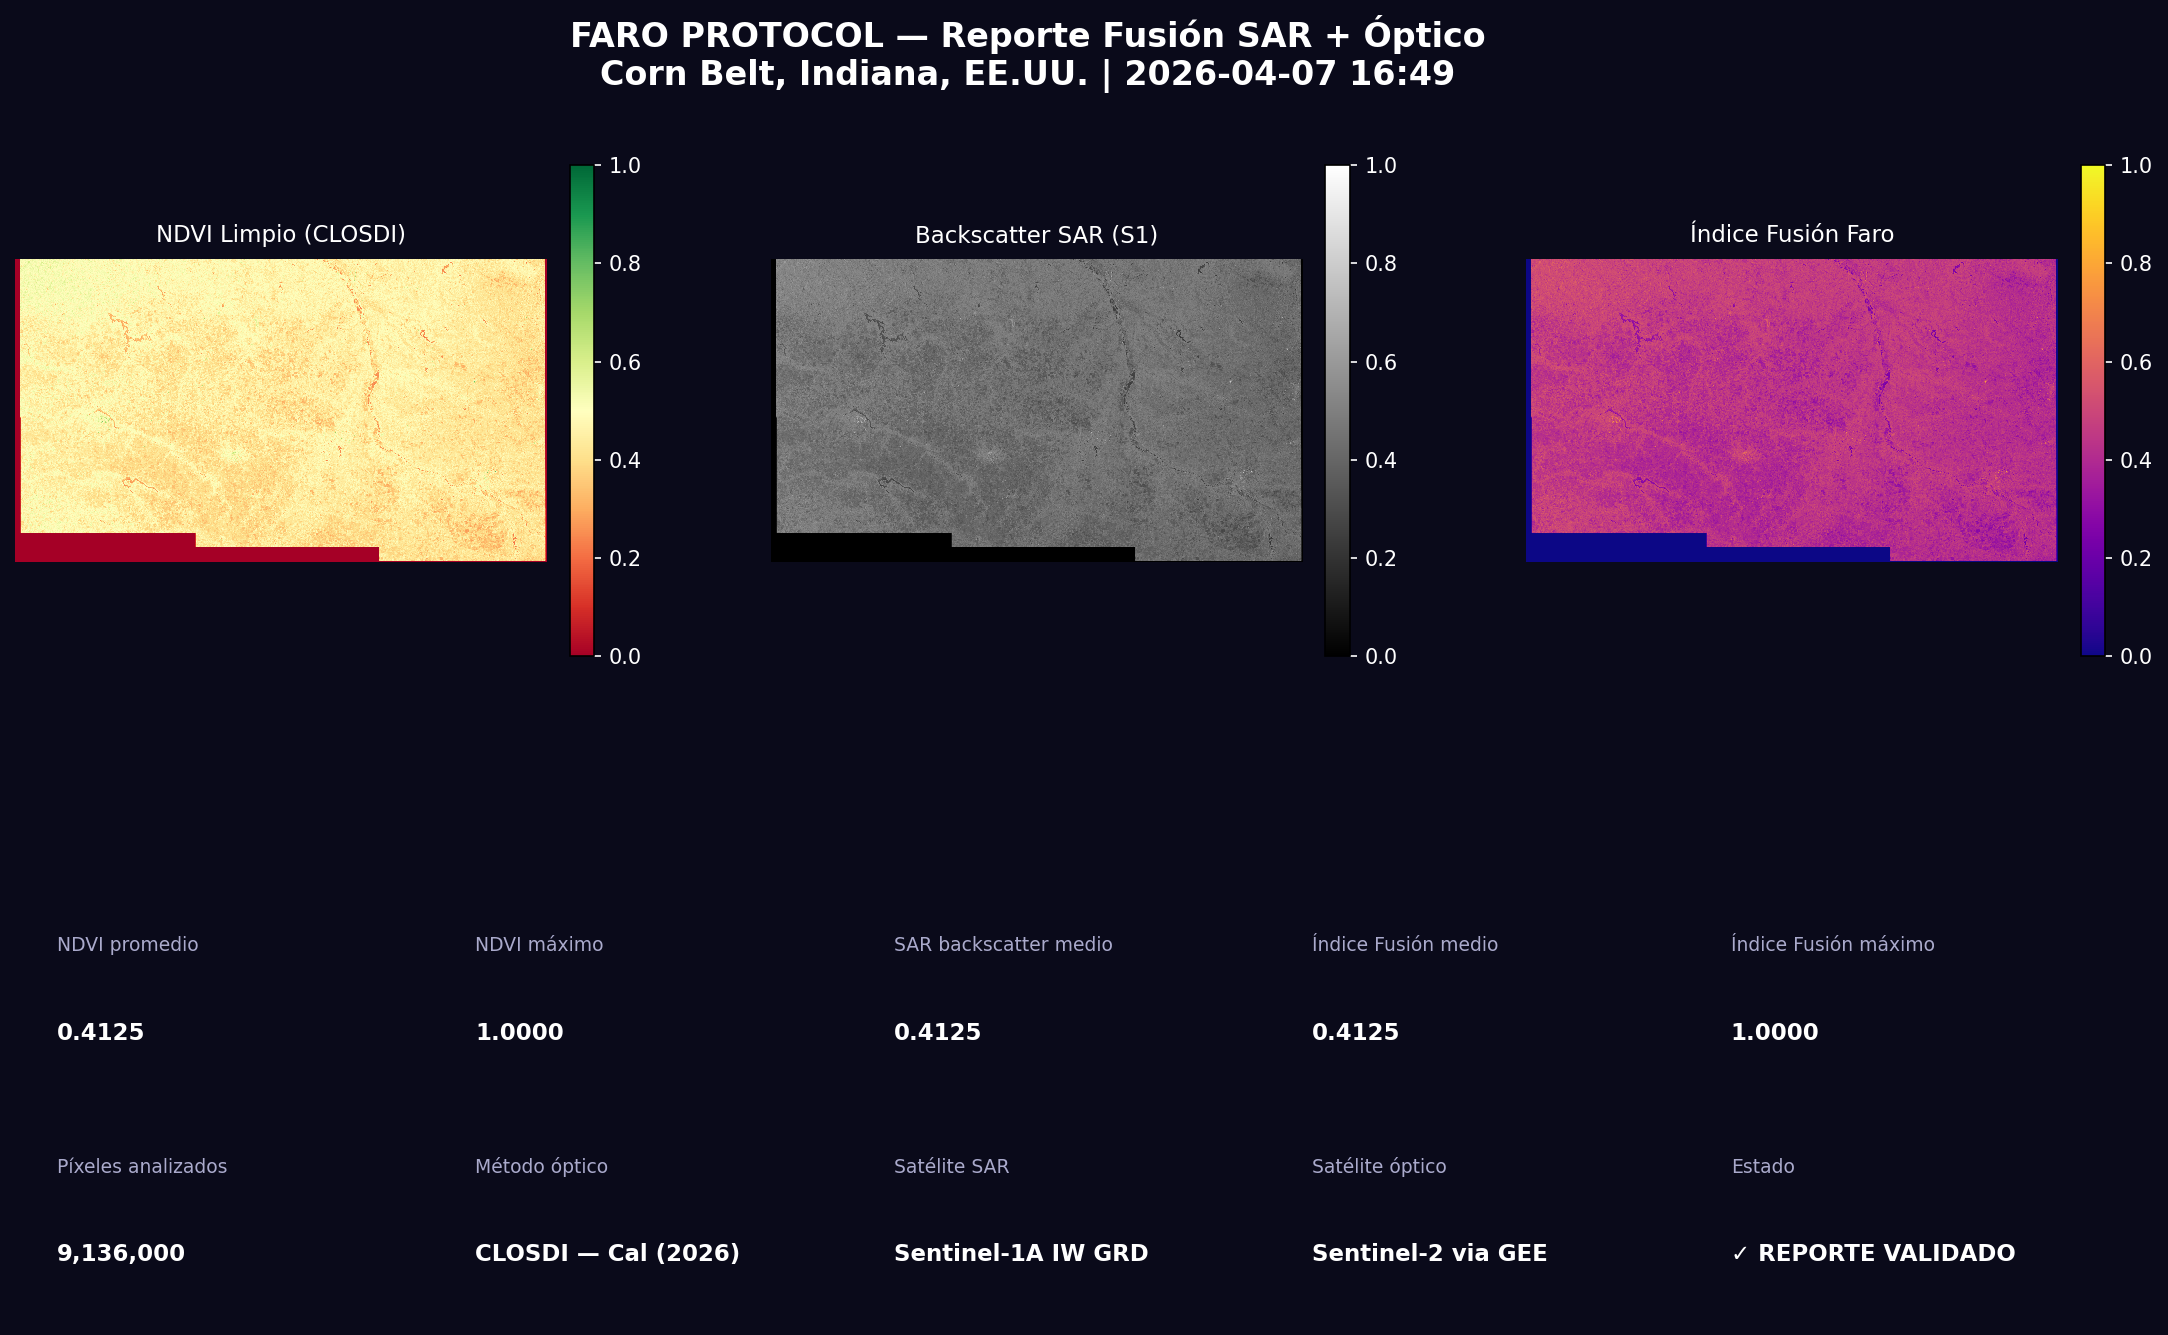
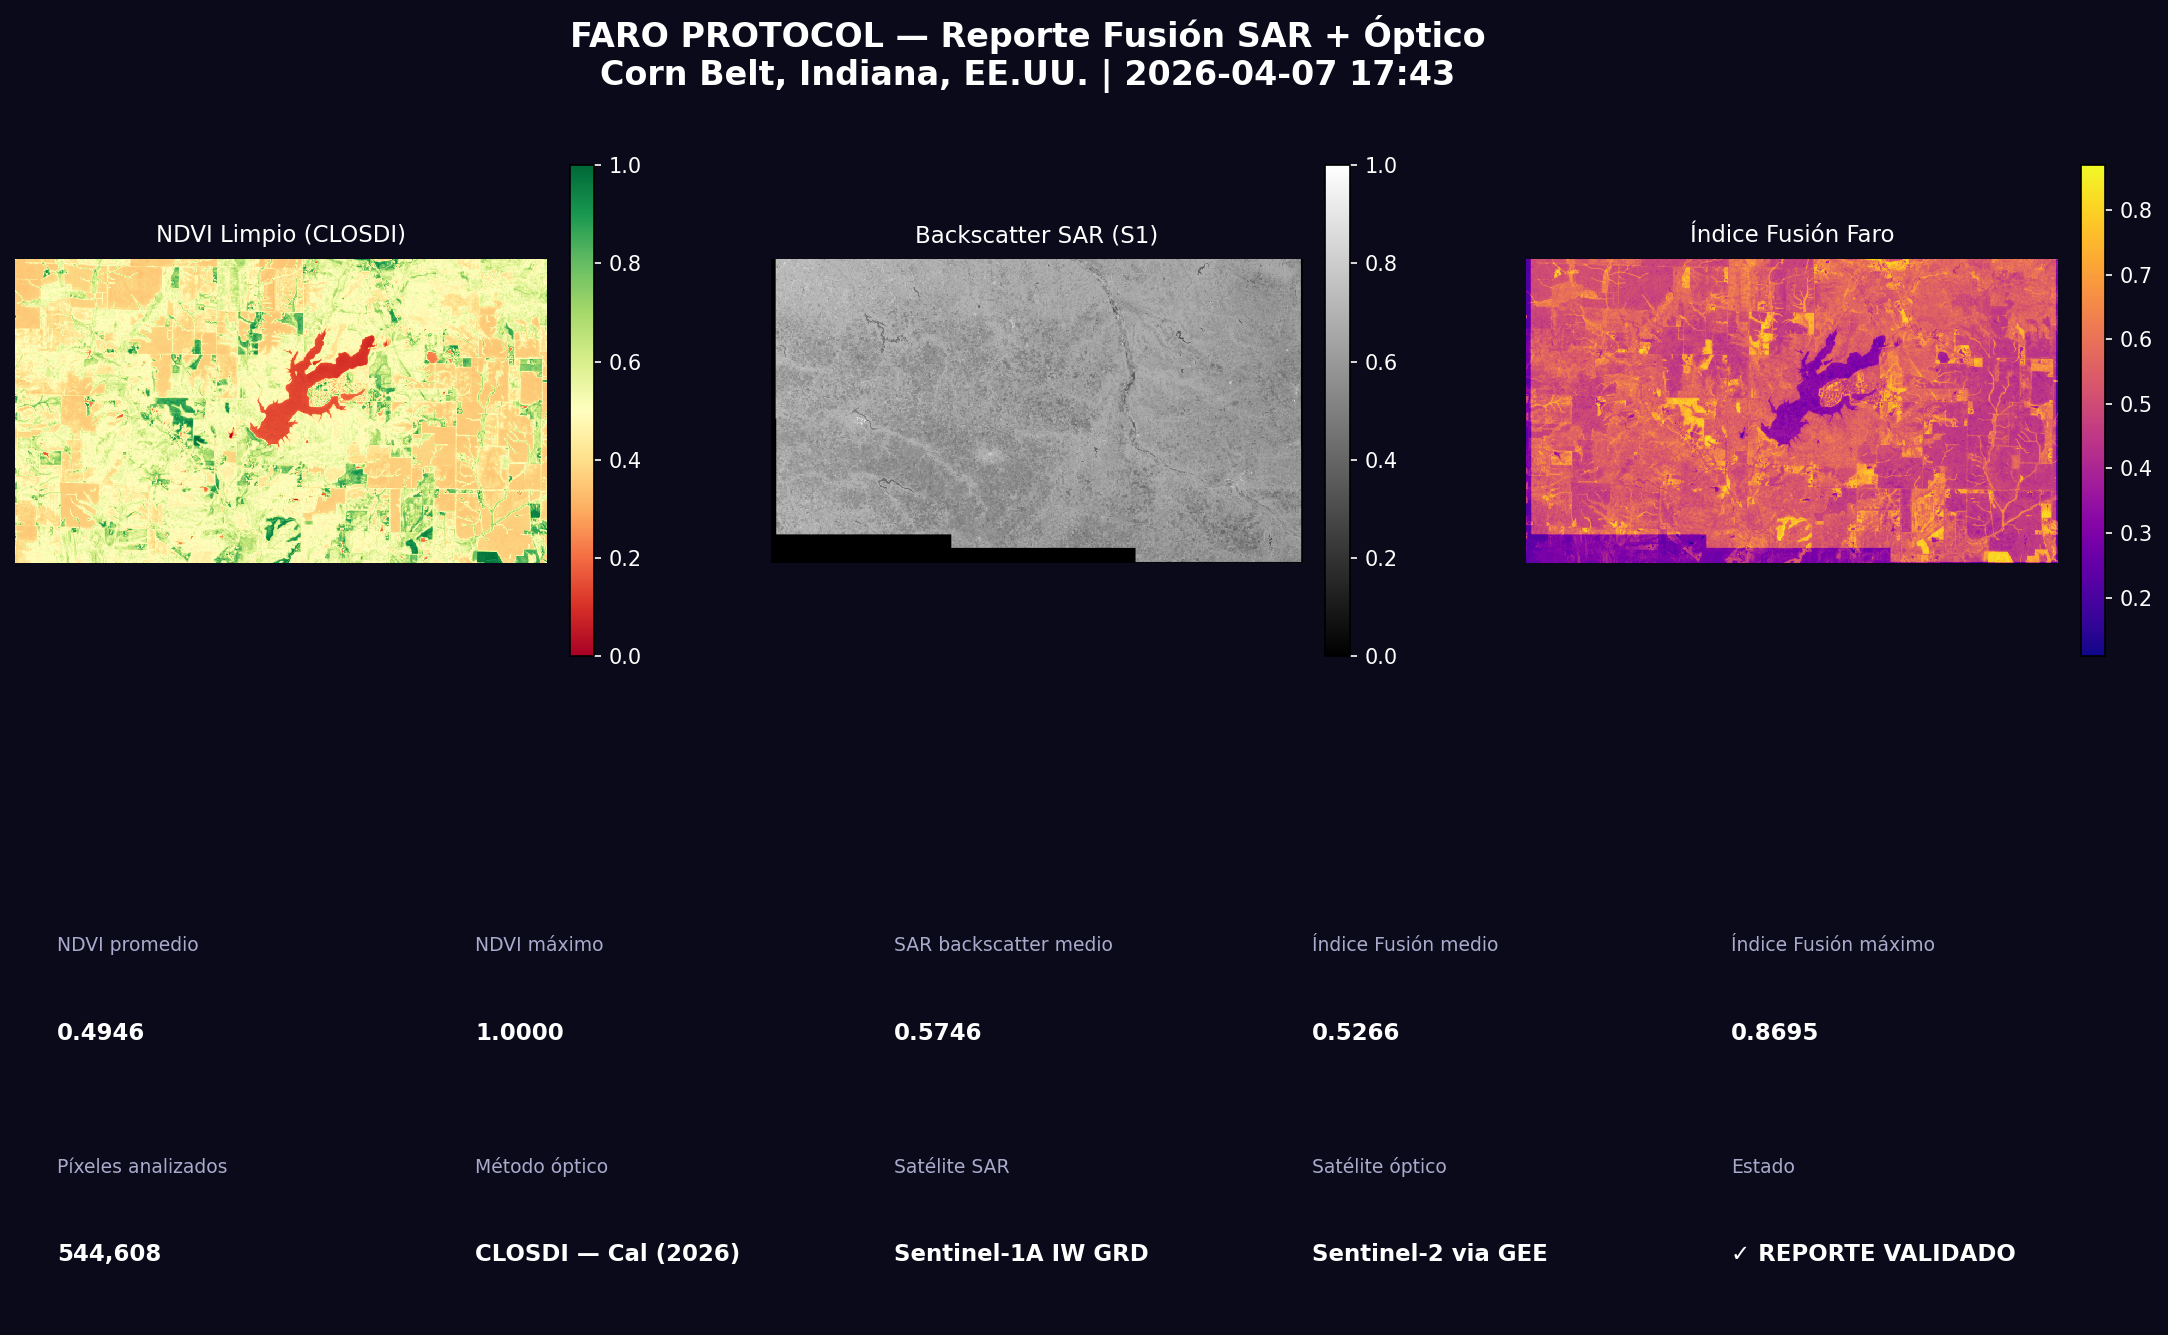
feat: batch SAR+S2 pipeline completo — 9/9 áreas con Sello Verde
Corrida completa del pipeline SAR + Sentinel-2 óptico para las 9 áreas
globales (cordoba, balcarce, vaca_muerta, rotterdam, permian, pilbara,
amazonas, indiana, malacca). Todos los reportes de fusión y certificados
regenerados con SHA-256 verificado. Bricolage LinkedIn actualizado.

diff --git a/faro_pipeline.py b/faro_pipeline.py
@@ -69,33 +69,91 @@ def actualizar_data_json(area_name: str, stats: dict, sha256: str):
 
 def main():
     parser = argparse.ArgumentParser(
-        description='FARO PROTOCOL — Pipeline unificado',
+        description='FARO PROTOCOL — Pipeline unificado (SAR + S2 óptico)',
         formatter_class=argparse.RawDescriptionHelpFormatter,
         epilog=f"Areas disponibles: {', '.join(list_areas())}"
     )
     parser.add_argument(
-        '--area', required=True,
-        help='Nombre del area (ej: cordoba, vaca_muerta, balcarce)'
+        '--area', required=True, nargs='+',
+        help='Área(s) a procesar. Admite múltiples: --area cordoba balcarce vaca_muerta'
+    )
+    parser.add_argument(
+        '--with-s2', action='store_true', default=True,
+        help='Descargar Sentinel-2 L2A y calcular NDVI (activo por defecto)'
+    )
+    parser.add_argument(
+        '--no-s2', action='store_true',
+        help='No descargar S2 (modo SAR-only forzado)'
+    )
+    parser.add_argument(
+        '--max-nubes-s2', type=float, default=50.0,
+        help='Máximo %% nubes para S2 (default: 50)'
     )
     parser.add_argument(
         '--sar-file',
-        help='Path al archivo SAR .tiff crudo descargado de Copernicus'
+        help='Path al archivo SAR .tiff crudo (solo para área única sin georef)'
     )
     parser.add_argument(
         '--skip-georef', action='store_true',
-        help='Omitir el paso de georreferenciacion (el .tif ya existe)'
+        help='Omitir georreferenciación SAR (el .tif ya existe)'
     )
     parser.add_argument(
         '--only-search', action='store_true',
-        help='Solo buscar imagenes SAR disponibles, sin procesar'
+        help='Solo buscar imágenes SAR disponibles, sin procesar'
     )
     parser.add_argument(
         '--skip-vision', action='store_true',
-        help='Omitir la clasificacion de vigor (Fase 6) — util si el NDVI no esta disponible'
+        help='Omitir clasificación de vigor'
     )
     args = parser.parse_args()
 
-    area = load_area(args.area)
+    # Modo multi-área: delegar en faro_sar_auto.pipeline_area()
+    if len(args.area) > 1 or (len(args.area) == 1 and not args.sar_file and not args.only_search):
+        from faro_sar_auto import pipeline_area
+
+        areas_a_procesar = args.area
+        use_s2 = args.with_s2 and not args.no_s2
+        resultados = []
+        errores    = []
+
+        print()
+        print('=' * 65)
+        print(f'  FARO PROTOCOL — Batch pipeline ({len(areas_a_procesar)} áreas)')
+        print(f'  Modo: {"SAR + S2 óptico" if use_s2 else "SAR-only"}')
+        print(f'  Inicio: {datetime.now().strftime("%Y-%m-%d %H:%M")}')
+        print('=' * 65)
+
+        for i, area_name in enumerate(areas_a_procesar, 1):
+            print(f'\n[{i}/{len(areas_a_procesar)}] ── {area_name.upper()} ──')
+            try:
+                res = pipeline_area(
+                    area_name,
+                    skip_georef=True,   # el georef ya existe para todas
+                    with_s2=use_s2,
+                    max_nubes_s2=args.max_nubes_s2,
+                )
+                resultados.append(res)
+            except Exception as exc:
+                print(f'  ERROR en {area_name}: {exc}')
+                errores.append({'area': area_name, 'error': str(exc)})
+
+        # Resumen final
+        print()
+        print('=' * 65)
+        print(f'  RESUMEN BATCH — {datetime.now().strftime("%Y-%m-%d %H:%M")}')
+        print('=' * 65)
+        for r in resultados:
+            ndvi_tag = '★ S2' if 'S2' in r.get('ndvi_mode', '') else 'SAR'
+            print(f'  {r["area"]:<15} Score {r.get("score","?"):>5} | {ndvi_tag} | SHA {r.get("sha256","?")[:16]}...')
+        for e in errores:
+            print(f'  {e["area"]:<15} ERROR: {e["error"][:50]}')
+        print(f'  Total OK: {len(resultados)} | Errores: {len(errores)}')
+        print('=' * 65)
+        return
+
+    # Modo área única con SAR file (path legacy)
+    area_name = args.area[0]
+    area = load_area(area_name)
 
     print("\n" + "=" * 60)
     print(f"  FARO PROTOCOL -- Pipeline completo")
